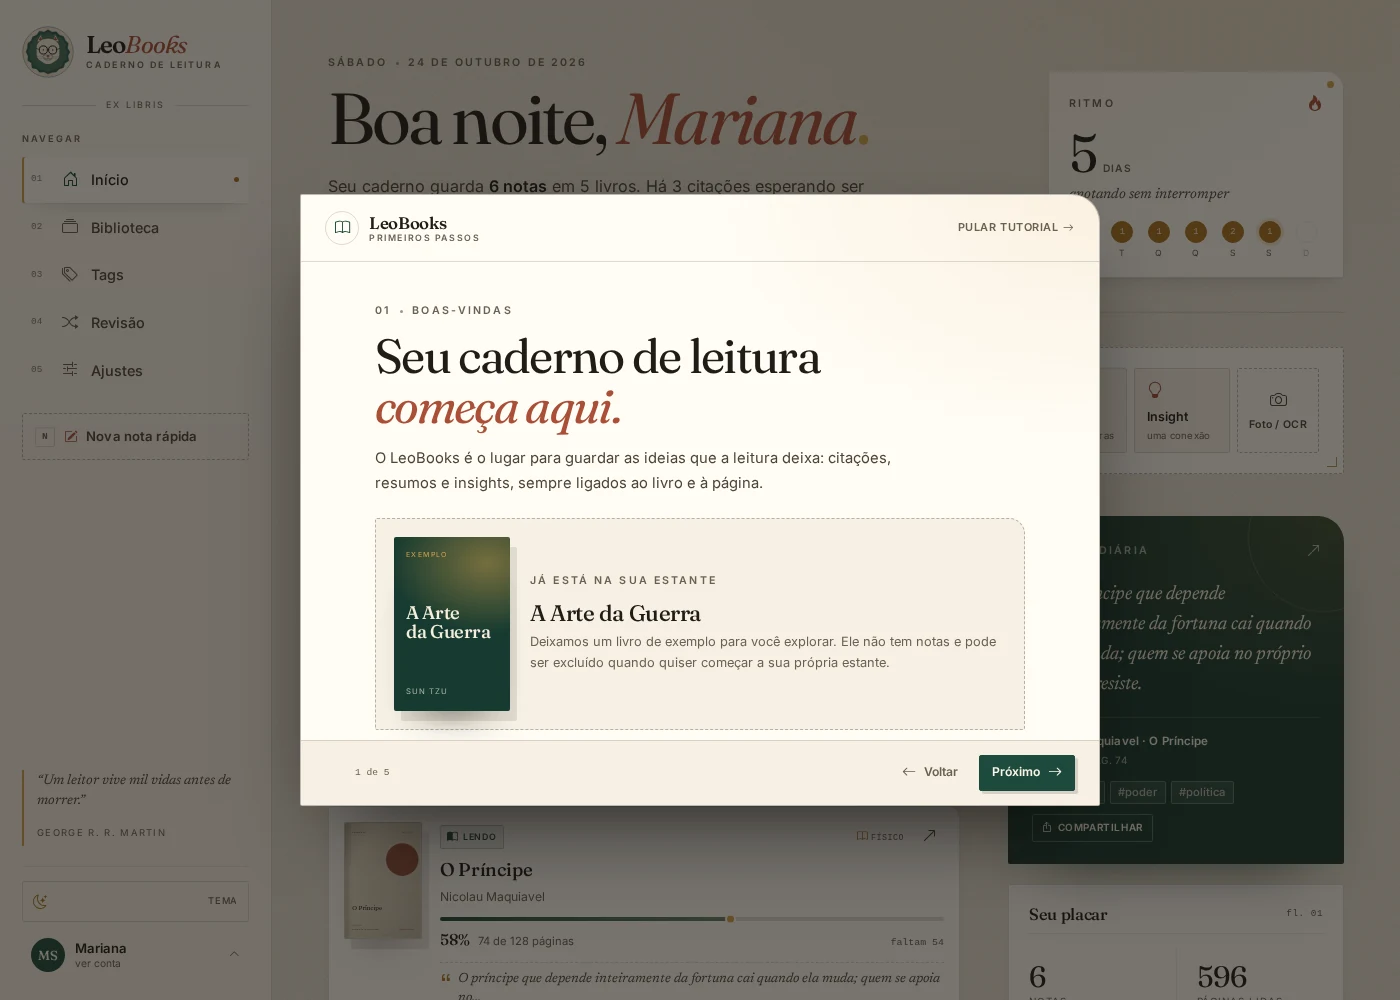
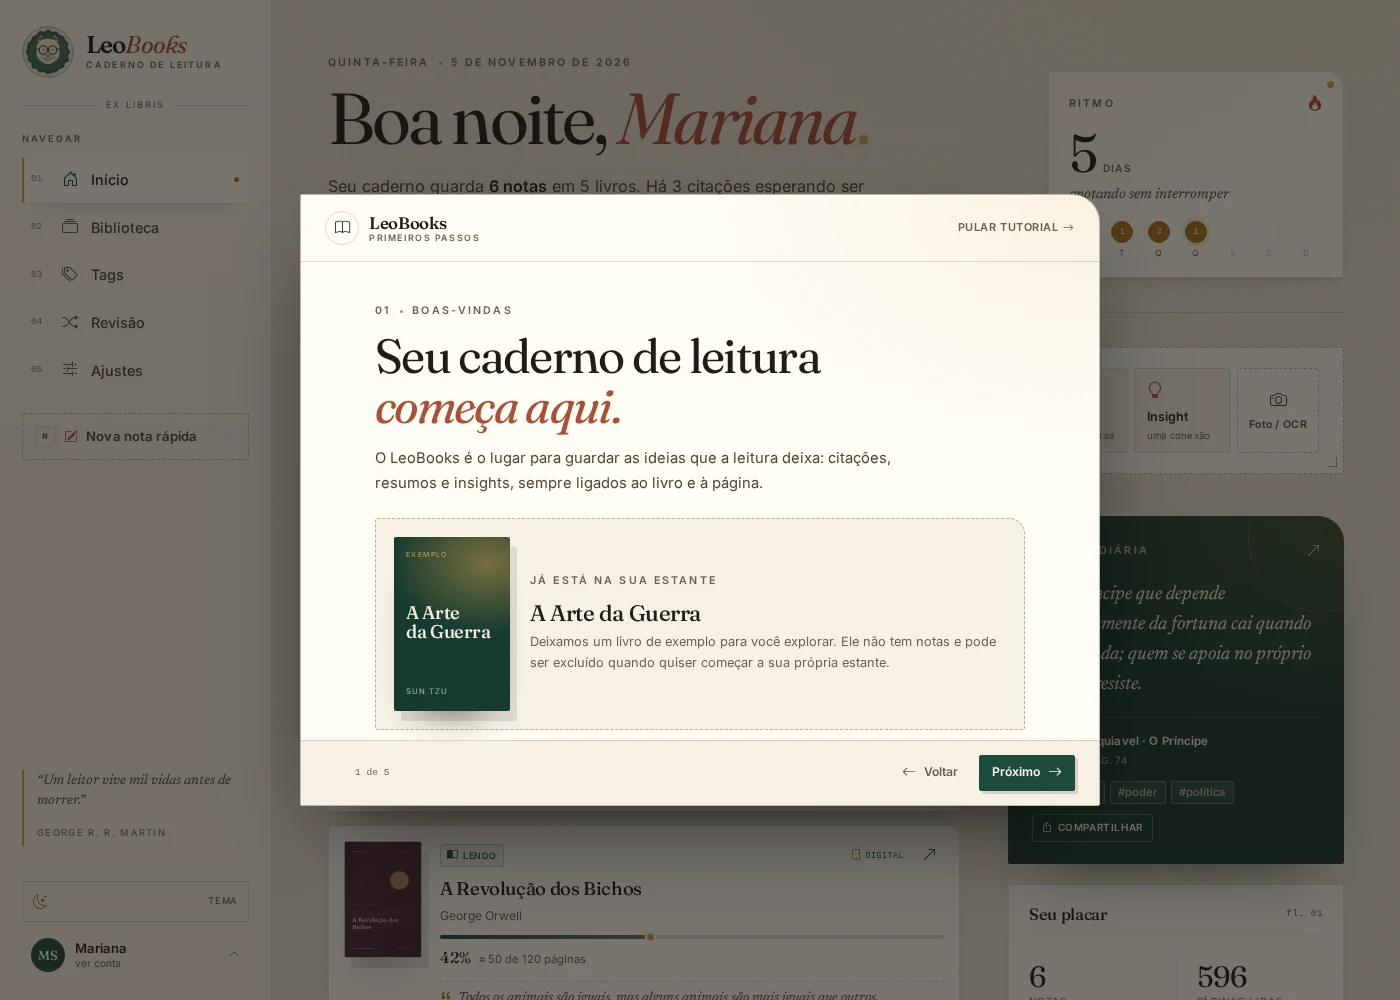
rank library by usage and keep current reading first

Changed region(s): [[0.2457, 0.837, 0.645, 1.0], [0.86, 0.217, 0.9214, 0.248]]

diff --git a/templates/library.html b/templates/library.html
@@ -38,6 +38,7 @@
     </div>
     <label class="visually-hidden" for="librarySort">Ordenar</label>
     <select class="form-select lb-select lb-select--sm" id="librarySort" name="sort" data-auto-submit>
+      <option value="usage" {{ 'selected' if sort == 'usage' }}>Mais usados</option>
       <option value="recent" {{ 'selected' if sort == 'recent' }}>Recentes</option>
       <option value="title" {{ 'selected' if sort == 'title' }}>Título A–Z</option>
       <option value="progress" {{ 'selected' if sort == 'progress' }}>Mais avançados</option>

diff --git a/routes.py b/routes.py
@@ -129,12 +129,44 @@ def _first_error(form) -> str:
     return "Confira os dados do formulário."
 
 
+def _book_usage_order():
+    """Ordem da estante: em andamento primeiro, depois uso real."""
+    from sqlalchemy import case, func
+
+    note_count = (
+        db.session.query(func.count(Note.id))
+        .filter(Note.book_id == Book.id)
+        .correlate(Book)
+        .scalar_subquery()
+    )
+    status_rank = case(
+        (Book.status == "READING", 0),
+        (Book.status == "WANT_TO_READ", 1),
+        (Book.status == "READ", 2),
+        else_=3,
+    )
+    return (
+        status_rank,
+        note_count.desc(),
+        Book.open_count.desc(),
+        func.coalesce(Book.last_opened_at, Book.updated_at).desc(),
+        Book.updated_at.desc(),
+    )
+
+
+def _touch_book(book: Book) -> None:
+    """Marca uso ao abrir o livro; mantém o livro em andamento no topo."""
+    book.last_opened_at = utcnow()
+    book.open_count = (book.open_count or 0) + 1
+    db.session.commit()
+
+
 def _note_form() -> NoteForm:
     """Formulário de nota com os livros do usuário como opções."""
     form = NoteForm()
     books = (
         Book.query.filter_by(user_id=current_user().id)
-        .order_by(Book.updated_at.desc())
+        .order_by(*_book_usage_order())
         .all()
     )
     form.book_id.choices = [(book.id, f"{book.title} — {book.authors}") for book in books]
@@ -424,7 +456,7 @@ def dashboard():
     )
     books = (
         Book.query.filter_by(user_id=user.id)
-        .order_by(Book.updated_at.desc())
+        .order_by(*_book_usage_order())
         .all()
     )
     reading = [book for book in books if book.status == "READING"]
@@ -460,7 +492,7 @@ def library():
     user = current_user()
     status_filter = (request.args.get("status") or "").strip().upper()
     query_text = (request.args.get("q") or "").strip()[:120]
-    sort = request.args.get("sort", "recent")
+    sort = request.args.get("sort", "usage")
 
     query = Book.query.filter_by(user_id=user.id)
     if status_filter in BOOK_STATUSES:
@@ -481,7 +513,7 @@ def library():
         query = query.order_by(
             (Book.current_page * 1.0 / func.nullif(Book.total_pages, 0)).desc()
         )
-    else:
+    elif sort == "recent":
         status_rank = case(
             (Book.status == "READING", 0),
             (Book.status == "WANT_TO_READ", 1),
@@ -489,6 +521,8 @@ def library():
             else_=3,
         )
         query = query.order_by(status_rank, Book.updated_at.desc())
+    else:
+        query = query.order_by(*_book_usage_order())
 
     books = query.all()
     all_books = user.books
@@ -796,6 +830,7 @@ def edit(book_id: str):
         elif book.total_pages and book.current_page >= book.total_pages:
             book.status = "READ"
         book.updated_at = utcnow()
+        book.last_opened_at = utcnow()
         db.session.commit()
         audit(
             "book.update",
@@ -896,6 +931,7 @@ def cover_lookup():
 @login_required
 def detail(book_id: str):
     book = _owned_book(book_id)
+    _touch_book(book)
     type_filter = (request.args.get("type") or "ALL").upper()
     if type_filter not in NOTE_TYPES:
         type_filter = "ALL"
@@ -986,6 +1022,7 @@ def progress(book_id: str):
         mode = "page"
 
     book.updated_at = utcnow()
+    book.last_opened_at = utcnow()
 
     if completed:
         book.status = "READ"
@@ -1041,6 +1078,7 @@ def status(book_id: str):
         elif book.total_pages:
             book.current_page = book.total_pages
     book.updated_at = utcnow()
+    book.last_opened_at = utcnow()
     db.session.commit()
     audit(
         "book.status",
@@ -1129,6 +1167,7 @@ def create():
 
     db.session.add(note)
     book.updated_at = utcnow()
+    book.last_opened_at = utcnow()
     db.session.commit()
     audit(
         "note.create",
@@ -1159,6 +1198,7 @@ def edit(note_id: str):
         abort(404)
 
     note.book_id = book.id
+    book.last_opened_at = utcnow()
     _apply_note_form(note, form)
     try:
         _save_note_photo(form, note)

diff --git a/app.py b/app.py
@@ -225,6 +225,7 @@ def create_app(overrides: dict | None = None) -> Flask:
         _ensure_admin_column()
         _ensure_onboarding_column()
         _ensure_book_media_columns()
+        _ensure_book_usage_columns()
         _ensure_an_admin_exists()
 
     return app
@@ -299,6 +300,31 @@ def _ensure_book_media_columns() -> None:
                 "FLOAT NOT NULL DEFAULT 0"
             )
         )
+    db.session.commit()
+
+
+def _ensure_book_usage_columns() -> None:
+    """Migração leve para a ordenação por uso (aberturas e atividade)."""
+    from sqlalchemy import inspect, text
+
+    inspector = inspect(db.engine)
+    if "books" not in inspector.get_table_names():
+        return
+    columns = {column["name"] for column in inspector.get_columns("books")}
+    if "last_opened_at" not in columns:
+        db.session.execute(
+            text("ALTER TABLE books ADD COLUMN last_opened_at DATETIME")
+        )
+    if "open_count" not in columns:
+        db.session.execute(
+            text("ALTER TABLE books ADD COLUMN open_count INTEGER NOT NULL DEFAULT 0")
+        )
+    db.session.execute(
+        text(
+            "CREATE INDEX IF NOT EXISTS idx_books_user_activity "
+            "ON books (user_id, last_opened_at)"
+        )
+    )
     db.session.commit()
 
 

diff --git a/tests/test_books.py b/tests/test_books.py
@@ -241,3 +241,22 @@ def test_progress_rejects_invalid_digital_percentage(app, auth_client):
     with app.app_context():
         assert db.session.get(Book, book_id).current_page == 126
         assert db.session.get(Book, book_id).percent_complete == 42.0
+
+
+def test_library_usage_keeps_current_reading_ahead(app, auth_client):
+    create_book(auth_client, title="Livro atual", status="READING")
+    with app.app_context():
+        current_id = Book.query.filter_by(title="Livro atual").one().id
+
+    create_book(auth_client, title="Livro recém-adicionado", status="READING")
+
+    # Abrir o livro atual deve colocá-lo à frente do recém-adicionado.
+    auth_client.get(f"/books/{current_id}")
+    html = auth_client.get("/library").get_data(as_text=True)
+    assert html.index('aria-label="Abrir Livro atual"') < html.index(
+        'aria-label="Abrir Livro recém-adicionado"'
+    )
+    with app.app_context():
+        book = db.session.get(Book, current_id)
+        assert book.open_count >= 2
+        assert book.last_opened_at is not None

diff --git a/models.py b/models.py
@@ -199,6 +199,8 @@ class Book(db.Model):
     percent_complete = db.Column(db.Float, nullable=False, default=0.0)
     cover_url = db.Column(db.Text)
     cover_filename = db.Column(db.String(255))
+    last_opened_at = db.Column(db.DateTime(timezone=True), nullable=True)
+    open_count = db.Column(db.Integer, nullable=False, default=0)
     created_at = db.Column(db.DateTime(timezone=True), nullable=False, default=utcnow)
     updated_at = db.Column(
         db.DateTime(timezone=True), nullable=False, default=utcnow, onupdate=utcnow
@@ -216,6 +218,7 @@ class Book(db.Model):
 
     __table_args__ = (
         db.Index("idx_books_status", "status"),
+        db.Index("idx_books_user_activity", "user_id", "last_opened_at"),
         db.CheckConstraint(
             "status IN ('WANT_TO_READ', 'READING', 'READ', 'ABANDONED')",
             name="ck_books_status",

diff --git a/README.md b/README.md
@@ -56,7 +56,7 @@ Escolha a forma que combina com o seu servidor ou computador.
 O `.deb` instala o aplicativo GTK, o serviço local e o atalho no menu do GNOME:
 
 ```bash
-sudo apt install ./leobooks_1.0.7_amd64.deb
+sudo apt install ./leobooks_1.0.8_amd64.deb
 sudo systemctl status leobooks
 ```
 
@@ -72,21 +72,21 @@ O aplicativo usa a janela e o botão de fechar do próprio GNOME. O banco fica e
 ### Fedora 42
 
 ```bash
-sudo dnf install ./leobooks-1.0.7-1.fc42.x86_64.rpm
+sudo dnf install ./leobooks-1.0.8-1.fc42.x86_64.rpm
 sudo systemctl status leobooks
 ```
 
 Em Fedora com `yum`, o comando equivalente é:
 
 ```bash
-sudo yum install ./leobooks-1.0.7-1.fc42.x86_64.rpm
+sudo yum install ./leobooks-1.0.8-1.fc42.x86_64.rpm
 ```
 
 ### Arch e outras distros
 
 ```bash
-tar -xzf leobooks-1.0.7-linux-x86_64.tar.gz
-cd leobooks-1.0.7
+tar -xzf leobooks-1.0.8-linux-x86_64.tar.gz
+cd leobooks-1.0.8
 sudo ./install.sh
 ```
 
@@ -178,6 +178,10 @@ caminho da escola. Ela não quer registrar tudo: quer guardar o que vale a pena
 reler.
 
 ### 1. Coloque um livro na estante
+
+A estante abre pelos livros **em andamento** e pelos que você mais usa —
+aberturas, notas e progresso contam. Assim, o livro atual não some quando novos
+títulos entram na lista.
 
 Em **Biblioteca → Adicionar livro**, informe título e autor e escolha o formato:
 
@@ -440,8 +444,8 @@ docker compose push
 Para uma release versionada:
 
 ```bash
-LEOBOOKS_IMAGE_TAG=1.0.7 docker compose build
-LEOBOOKS_IMAGE_TAG=1.0.7 docker compose push
+LEOBOOKS_IMAGE_TAG=1.0.8 docker compose build
+LEOBOOKS_IMAGE_TAG=1.0.8 docker compose push
 ```
 
 ### Testes
@@ -451,7 +455,7 @@ LEOBOOKS_IMAGE_TAG=1.0.7 docker compose push
 .venv/bin/pytest -q
 ```
 
-Estado atual: **107 testes passando** — rotas, CSRF, isolamento entre contas,
+Estado atual: **108 testes passando** — rotas, CSRF, isolamento entre contas,
 sanitização de Markdown, uploads, busca de capas, backup, tutorial, cache e
 exclusão de conta.
 

diff --git a/CHANGELOG.md b/CHANGELOG.md
@@ -7,6 +7,16 @@
 - Capturas atualizadas na versão atual com a conta fictícia **Mariana Sales**,
   incluindo desktop, celular, tutorial e tema madrugada.
 
+## 1.0.8 — 2026-11-05
+
+- A estante agora indexa os livros por uso: em andamento primeiro, depois
+  quantidade de notas, aberturas e última atividade.
+- O livro em leitura deixa de ir para trás quando novos livros são cadastrados.
+- Adicionadas as opções de ordenação **Mais usados** (padrão) e **Recentes**.
+- A abertura de um livro e a atividade de notas/progresso atualizam o índice.
+- Migração leve para `last_opened_at` e `open_count`, com índice por usuário e
+  atividade.
+
 ## 1.0.7 — 2026-10-24
 
 - Removida a barra interna; a janela usa apenas a decoração e o botão Fechar do
